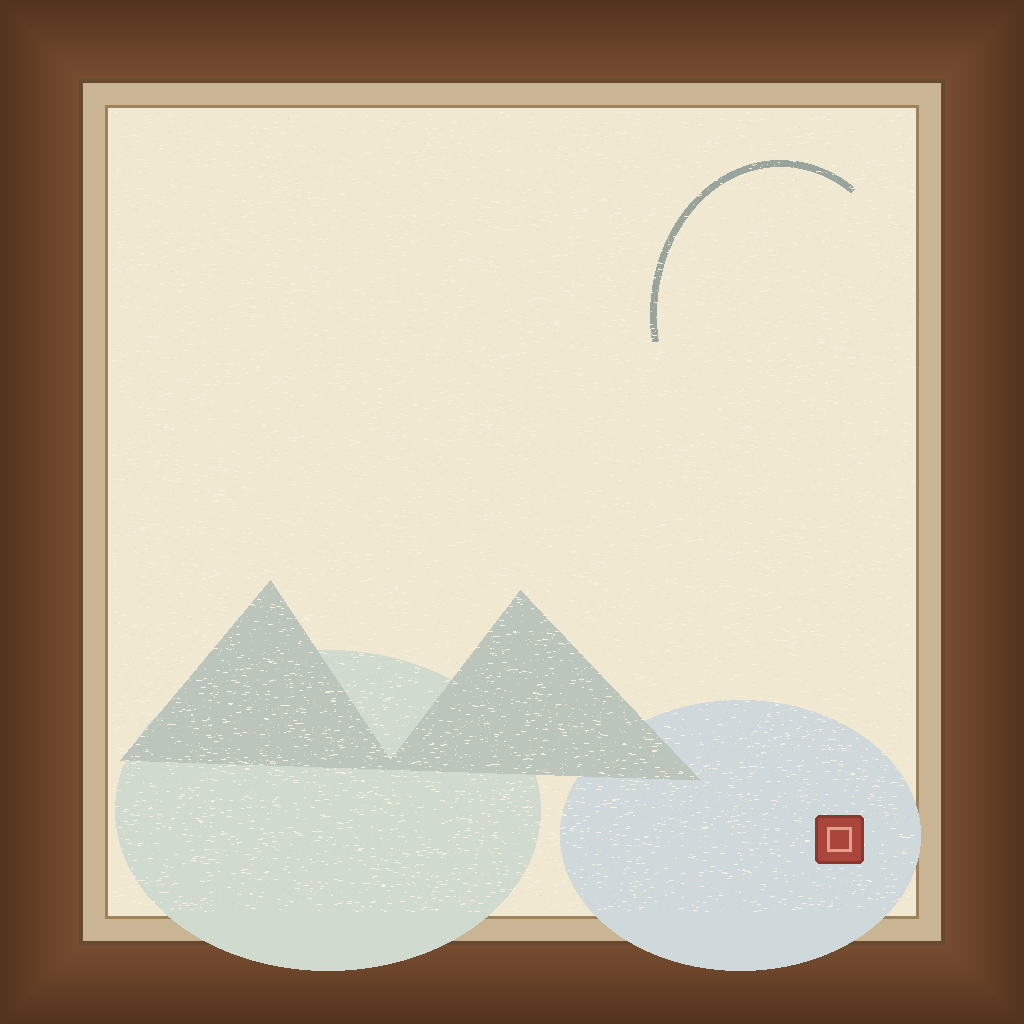
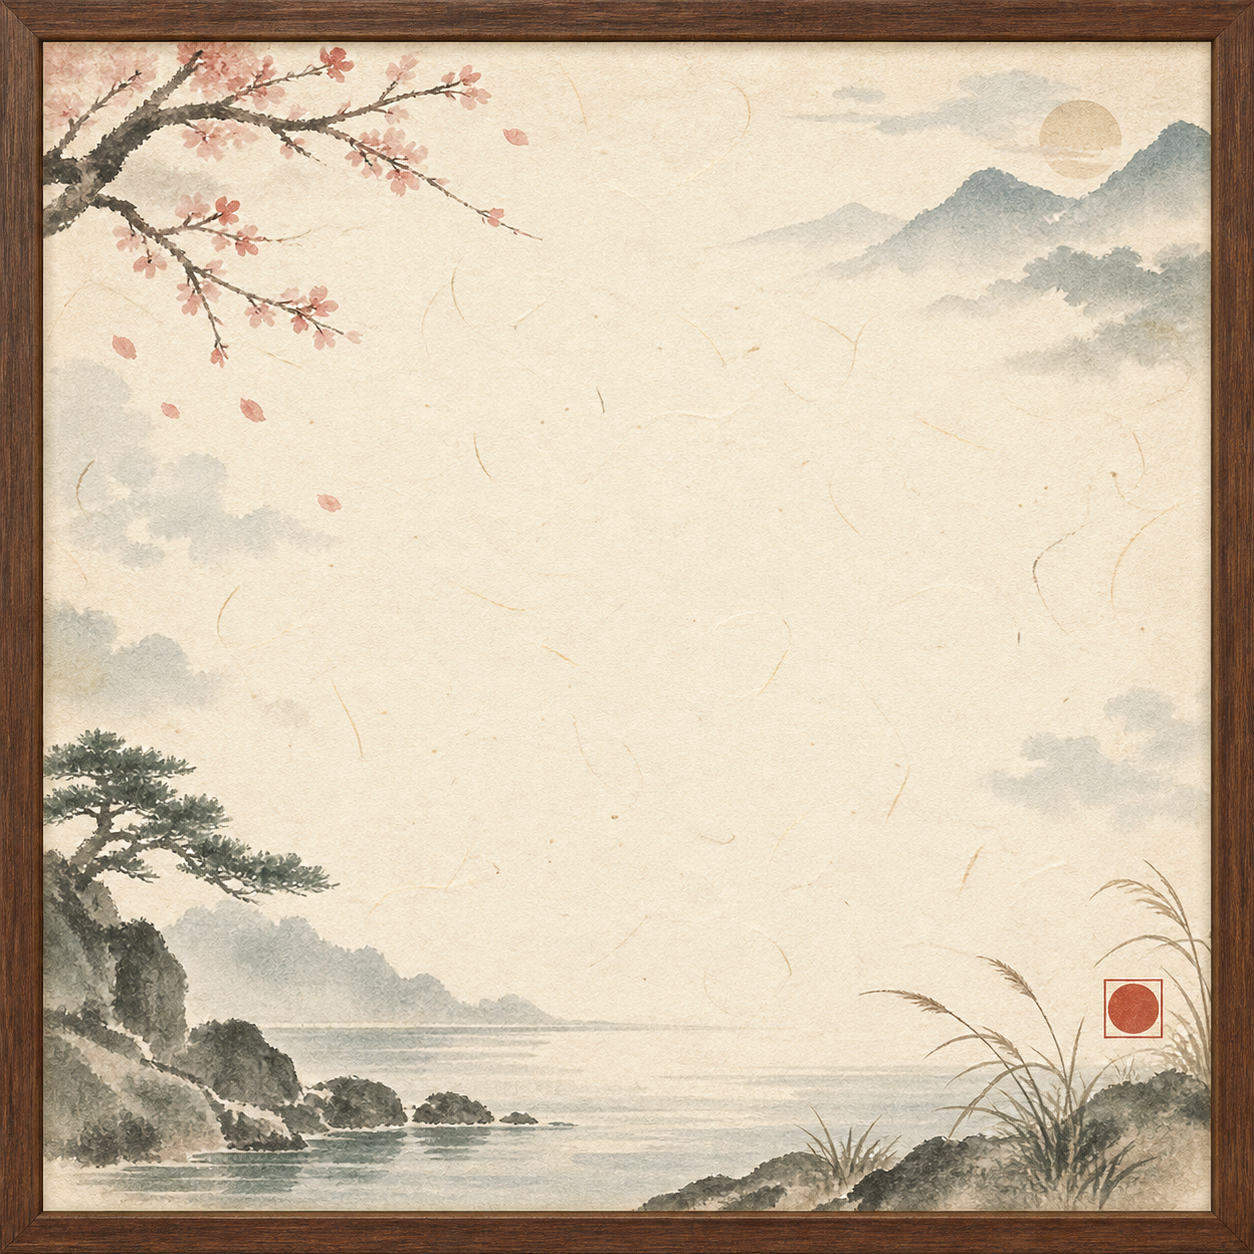
feat: replace procedural template with generated artwork
- 画像生成ツールで作成した和紙・水墨画・額縁背景へ差し替え
- 再生成プロンプトと目視確認の不変条件をドキュメント化
- 旧 Pillow テンプレート生成スクリプトと CI 参照を削除

diff --git a/docs/design/senryu-template.md b/docs/design/senryu-template.md
@@ -1,0 +1,28 @@
+---
+title: 作品画像テンプレート生成仕様
+description: 画像生成ツールで作成した俳句・川柳作品画像の背景テンプレートと、再生成時に守るプロンプト・不変条件。
+updated: 2026-08-23
+read_when:
+  - "`assets/senryu_template.png` を更新するとき。"
+  - 作品画像の和風デザイン、余白、色、背景表現を変更するとき。
+---
+
+# 作品画像テンプレート生成仕様
+
+## 現在のアセット
+
+- パス: `assets/senryu_template.png`
+- 用途: Discord に添付する作品画像の背景。
+- 生成サイズ: 1254×1254 の RGBA PNG。Bot は Pillow で 1024×1024 に整形して本文を合成する。
+- 生成方式: Codex の組み込み画像生成ツールで生成し、生成画像をリポジトリへコピー。
+- 日本語本文: 画像生成には含めず、`bot/image.py` が元の Discord 本文を正確に描画する。
+
+## 再生成プロンプト
+
+```text
+Create a quiet, refined Japanese poetry display background designed like a poem mounted in a traditional frame. Use warm ivory handmade washi paper with delicate visible paper fibers, a generous clear negative-space center for overlaid Japanese text, and a very subtle atmospheric ink-wash landscape around the perimeter. Include a restrained dark walnut wooden frame, muted watercolor and sumi-e scenery, and one small abstract vermilion red seal near the lower right; the seal must contain no character. Use a square composition, soft diffuse daylight, calm literary mood, warm ivory/parchment, muted charcoal, sage, blue-gray, walnut brown, and a tiny vermilion accent. The center must remain uncluttered and readable.
+
+No readable text, Japanese characters, kanji, kana, Latin letters, numbers, calligraphy, logos, watermark, signature, people, animals, bright saturated colors, hard geometric mountains, large dark blobs, excessive noise, clutter, or border text.
+```
+
+再生成後は、中央の文字安全領域、木製額縁、和紙の繊維、水墨画の淡い周辺表現、赤い抽象落款、文字・透かしがないことを目視確認する。生成した PNG を `assets/senryu_template.png` に置き換え、`python -m pytest tests/test_image.py` を実行する。

diff --git a/docs/development/contributing.md b/docs/development/contributing.md
@@ -23,7 +23,7 @@ python -m venv .venv
 
 ```bash
 .venv/bin/python -m pytest
-.venv/bin/ruff check bot tests scripts
+.venv/bin/ruff check bot tests
 ```
 
 テストは OpenAI、Discord Gateway、Railway へ接続せず、AI アダプタと Discord メッセージを fake に差し替える。対象テストが検証する範囲は、型契約、星表示、TTL 重複防止、固定テンプレート合成、一次判定後の呼び出し回数、返信本文・添付ファイルである。
@@ -39,10 +39,9 @@ python -m venv .venv
 
 ## 固定テンプレートの更新
 
-背景は OpenAI の画像 API ではなく、`assets/senryu_template.png` を使う。デザインを変更するときは、手作業で PNG だけを上書きせず、`scripts/create_template.py` を修正して次を実行する。
+背景は Bot 実行時に API 生成せず、画像生成ツールで作成した `assets/senryu_template.png` を使う。生成時のプロンプトと不変条件は [`docs/design/senryu-template.md`](../design/senryu-template.md) に記録している。デザインを変更するときは画像生成で新しい PNG を作成し、既存ファイルを置き換えたうえで次を実行する。
 
 ```bash
-python scripts/create_template.py
 python -m pytest tests/test_image.py
 ```
 
